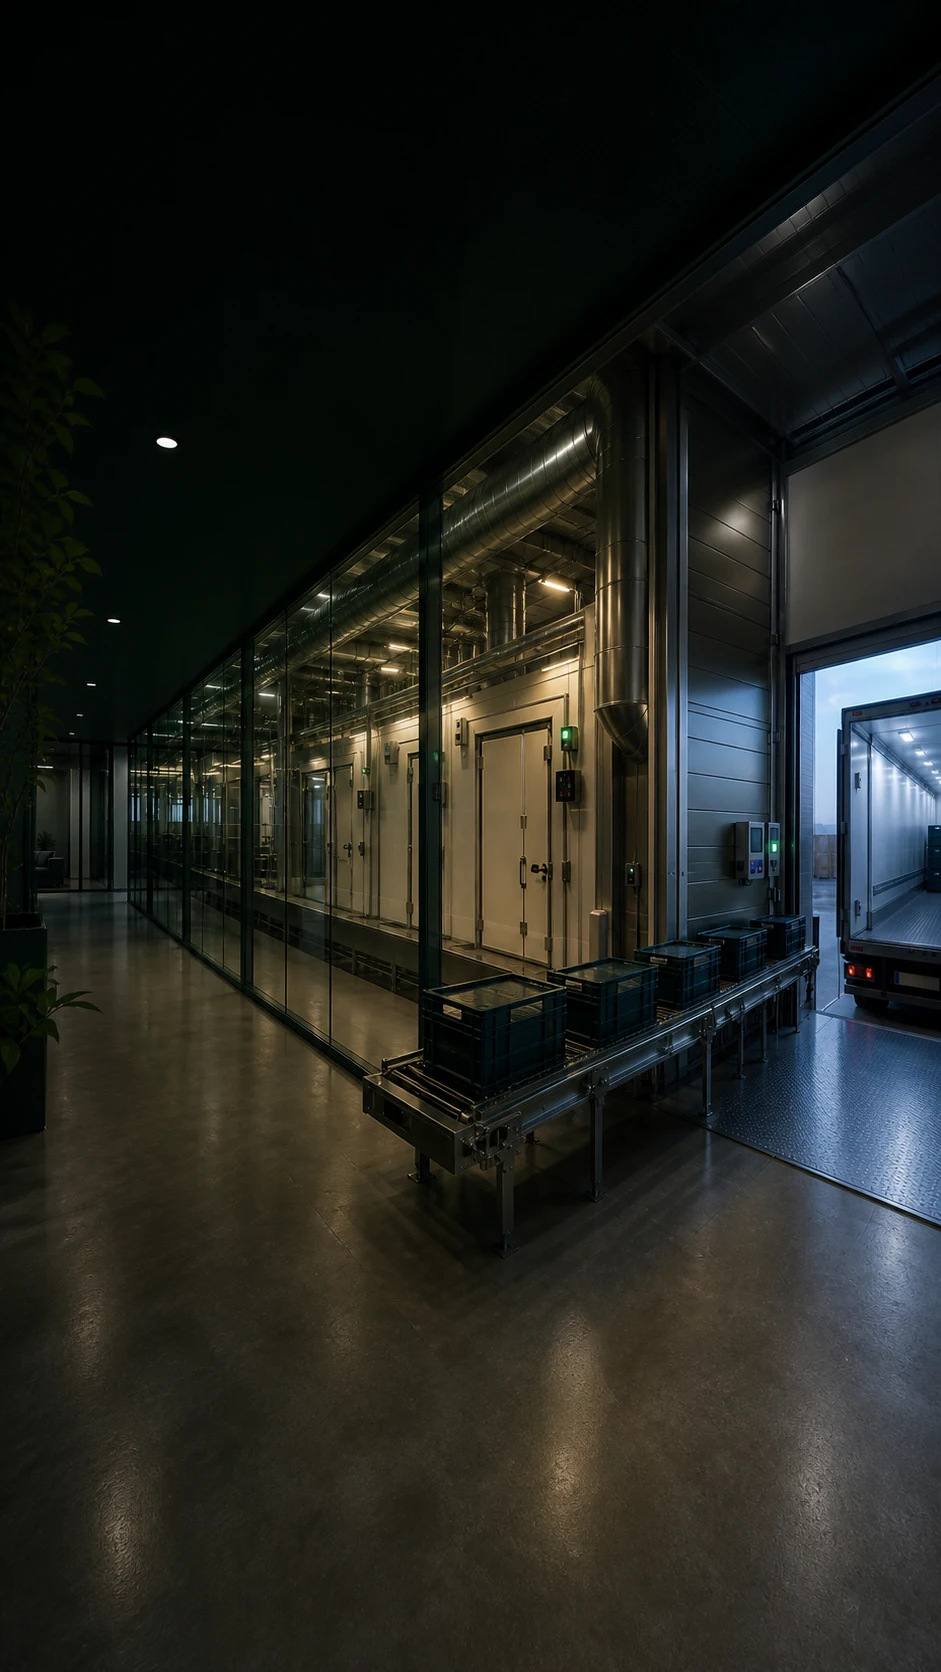
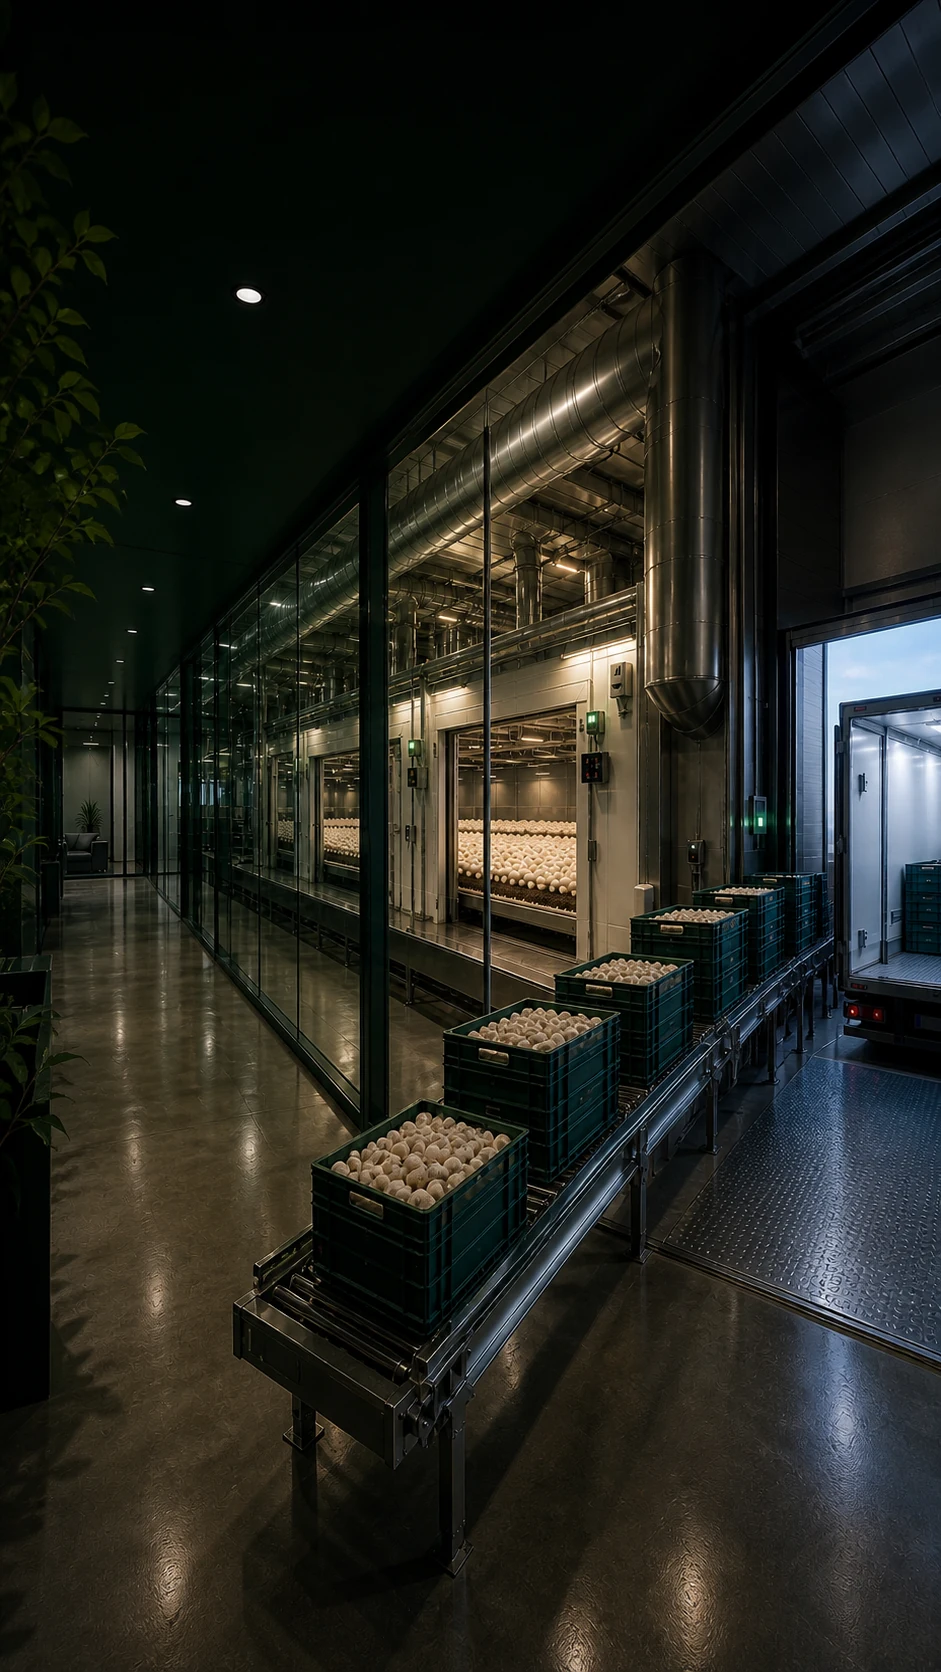
Refine hero product and supply story

diff --git a/styles/home.css b/styles/home.css
@@ -37,16 +37,33 @@
 }
 
 .home-hero__shade {
+  pointer-events: none;
   background:
-    linear-gradient(180deg, rgba(12, 16, 12, 0.04) 0%, rgba(12, 16, 12, 0) 44%, rgba(12, 16, 12, 0.18) 100%),
-    linear-gradient(90deg, rgba(12, 16, 12, 0.1) 0%, rgba(12, 16, 12, 0.07) 42%, rgba(12, 16, 12, 0.03) 58%, rgba(12, 16, 12, 0) 68%);
+    linear-gradient(180deg, rgba(8, 13, 9, 0.06) 0%, rgba(8, 13, 9, 0) 44%, rgba(8, 13, 9, 0.2) 100%),
+    linear-gradient(90deg, rgba(5, 12, 8, 0.4) 0%, rgba(5, 12, 8, 0.34) 34%, rgba(5, 12, 8, 0.2) 52%, rgba(5, 12, 8, 0.06) 68%, transparent 78%);
+}
+
+.home-hero__shade::before {
+  content: "";
+  position: absolute;
+  inset: 0 auto 0 0;
+  width: 72%;
+  -webkit-backdrop-filter: blur(3px);
+  backdrop-filter: blur(3px);
+  -webkit-mask-image: linear-gradient(90deg, #000 0%, #000 34%, rgba(0, 0, 0, 0.72) 52%, rgba(0, 0, 0, 0.22) 72%, transparent 100%);
+  mask-image: linear-gradient(90deg, #000 0%, #000 34%, rgba(0, 0, 0, 0.72) 52%, rgba(0, 0, 0, 0.22) 72%, transparent 100%);
 }
 
 @media (min-width: 821px) {
   .home-hero__shade {
     background:
-      linear-gradient(90deg, rgba(6, 13, 10, 0.28) 0%, rgba(6, 13, 10, 0.25) 30%, rgba(6, 13, 10, 0.18) 48%, rgba(6, 13, 10, 0.07) 64%, transparent 80%),
+      linear-gradient(90deg, rgba(4, 11, 7, 0.48) 0%, rgba(4, 11, 7, 0.43) 28%, rgba(4, 11, 7, 0.31) 43%, rgba(4, 11, 7, 0.17) 56%, rgba(4, 11, 7, 0.06) 68%, transparent 79%),
       linear-gradient(180deg, rgba(6, 13, 10, 0.04) 0%, transparent 50%, rgba(6, 13, 10, 0.22) 100%);
+  }
+  .home-hero__shade::before {
+    width: 68%;
+    -webkit-backdrop-filter: blur(5px);
+    backdrop-filter: blur(5px);
   }
   .home-hero__bottom p { text-shadow: 0 2px 16px rgba(0, 0, 0, 0.82); }
 }
@@ -626,8 +643,8 @@
   .home-hero__media img { object-position: 75% center; }
   .home-hero__shade {
     background:
-      linear-gradient(180deg, rgba(10,14,10,.06), rgba(10,14,10,0) 42%, rgba(10,14,10,.24)),
-      linear-gradient(90deg, rgba(10,14,10,.18), rgba(10,14,10,.15) 45%, rgba(10,14,10,.06) 70%, transparent);
+      linear-gradient(180deg, rgba(7,12,8,.08), rgba(7,12,8,0) 42%, rgba(7,12,8,.26)),
+      linear-gradient(90deg, rgba(4,11,7,.44), rgba(4,11,7,.36) 42%, rgba(4,11,7,.16) 68%, transparent 84%);
   }
   .home-hero__title { font-size: clamp(48px, 10.5vw, 82px); }
   .home-hero__bottom { grid-template-columns: 1fr; width: min(100%, 520px); gap: clamp(16px, 3svh, 28px); }
